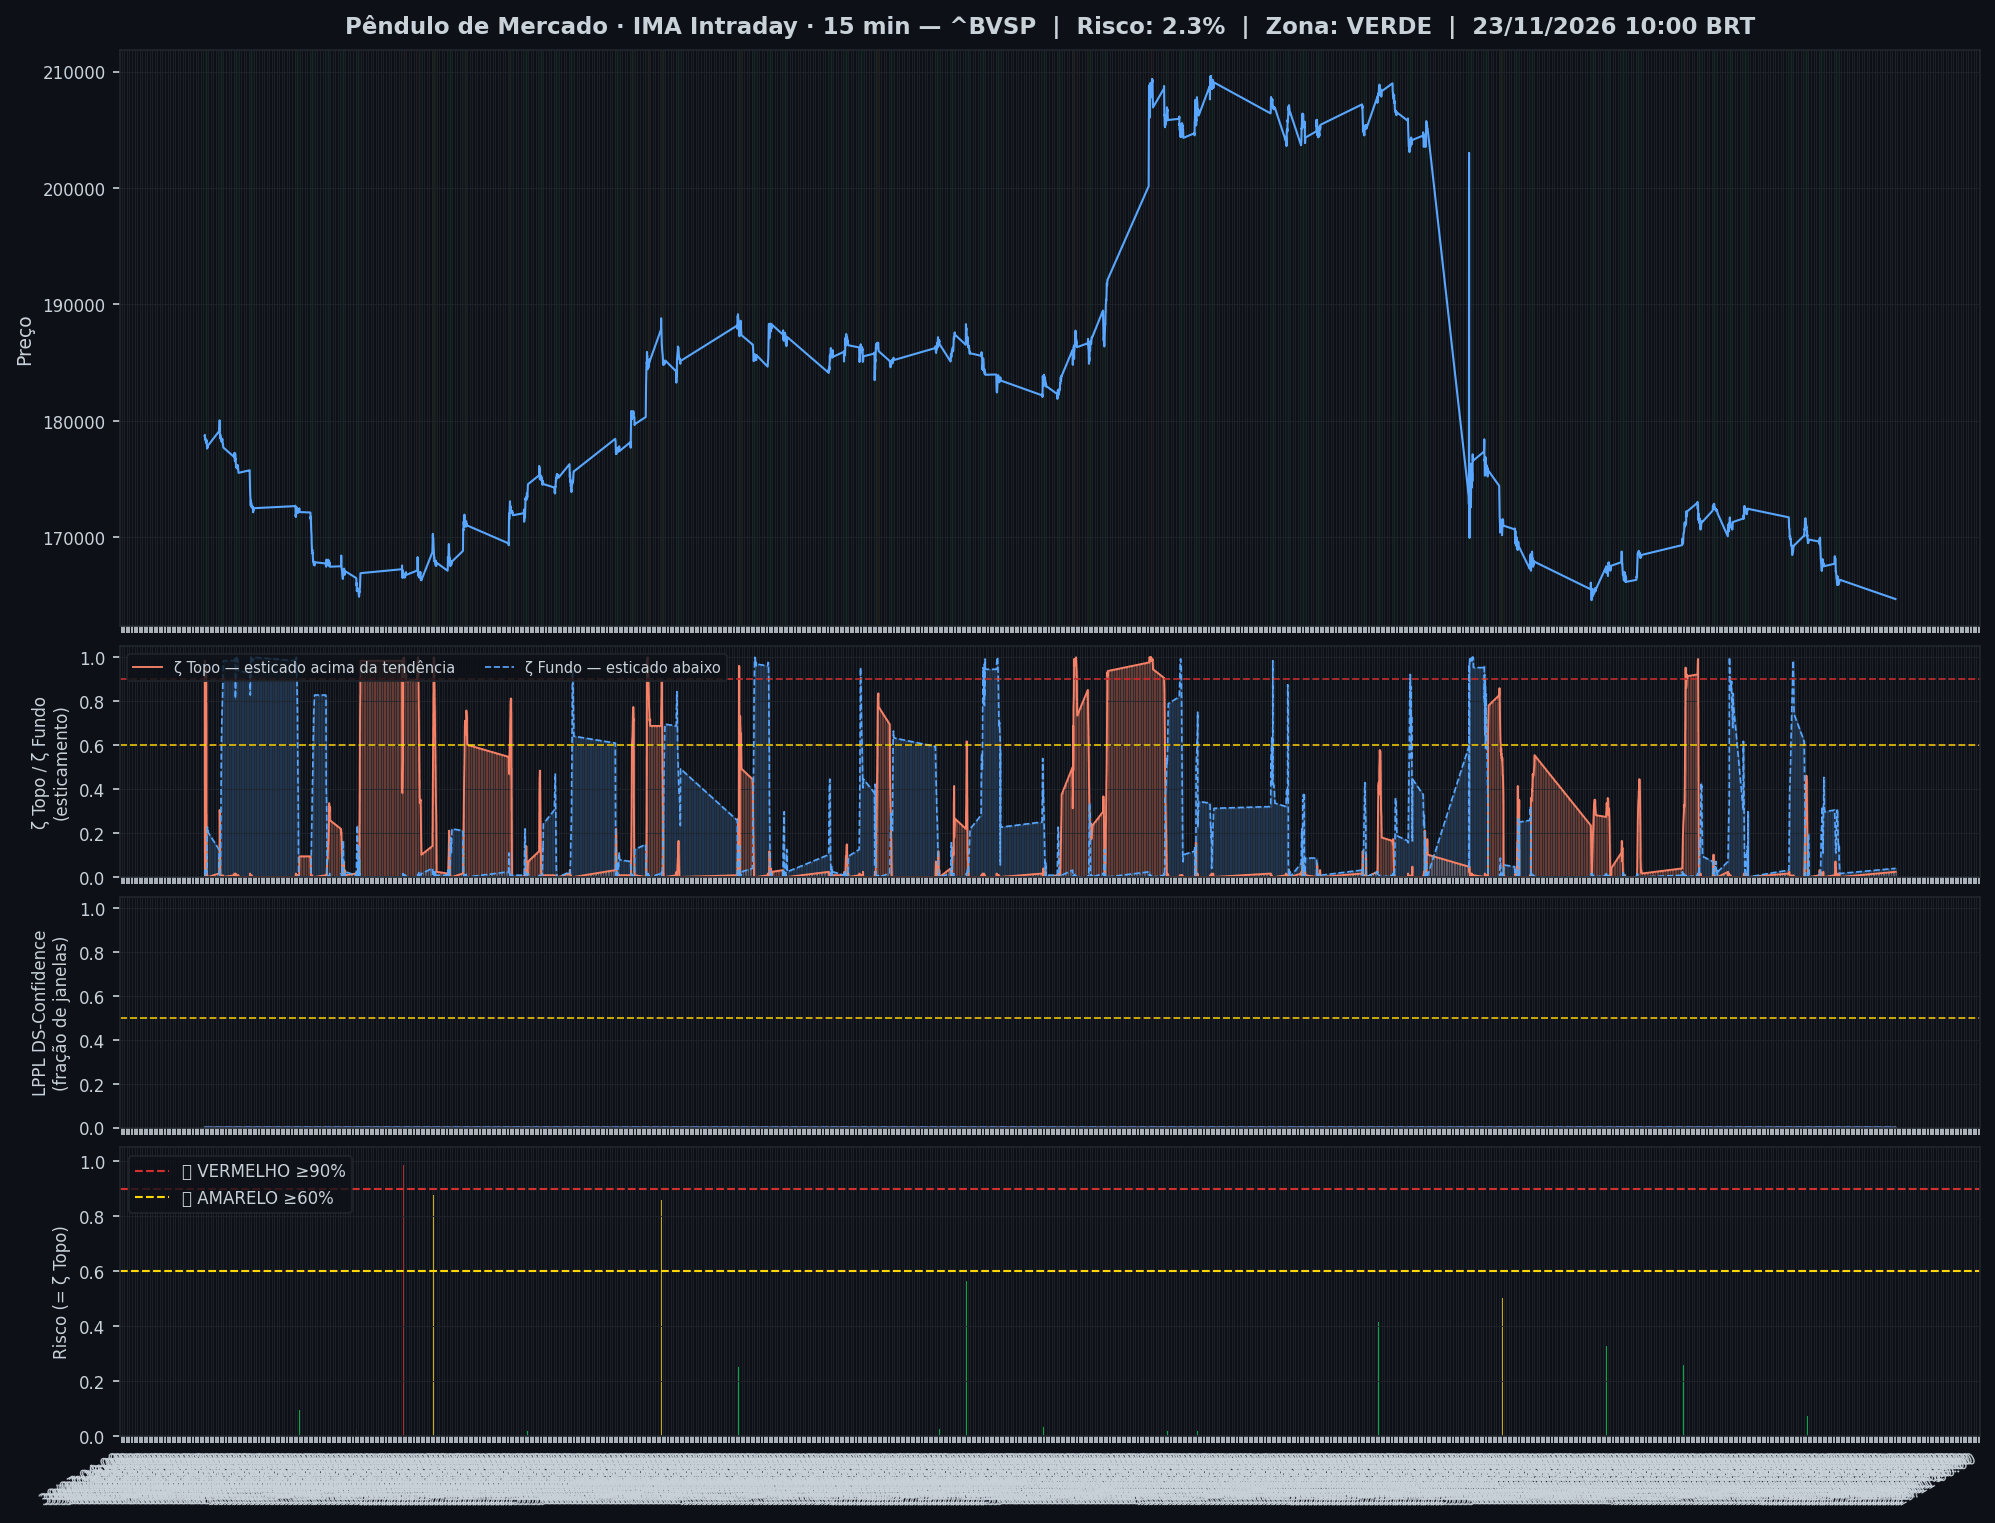
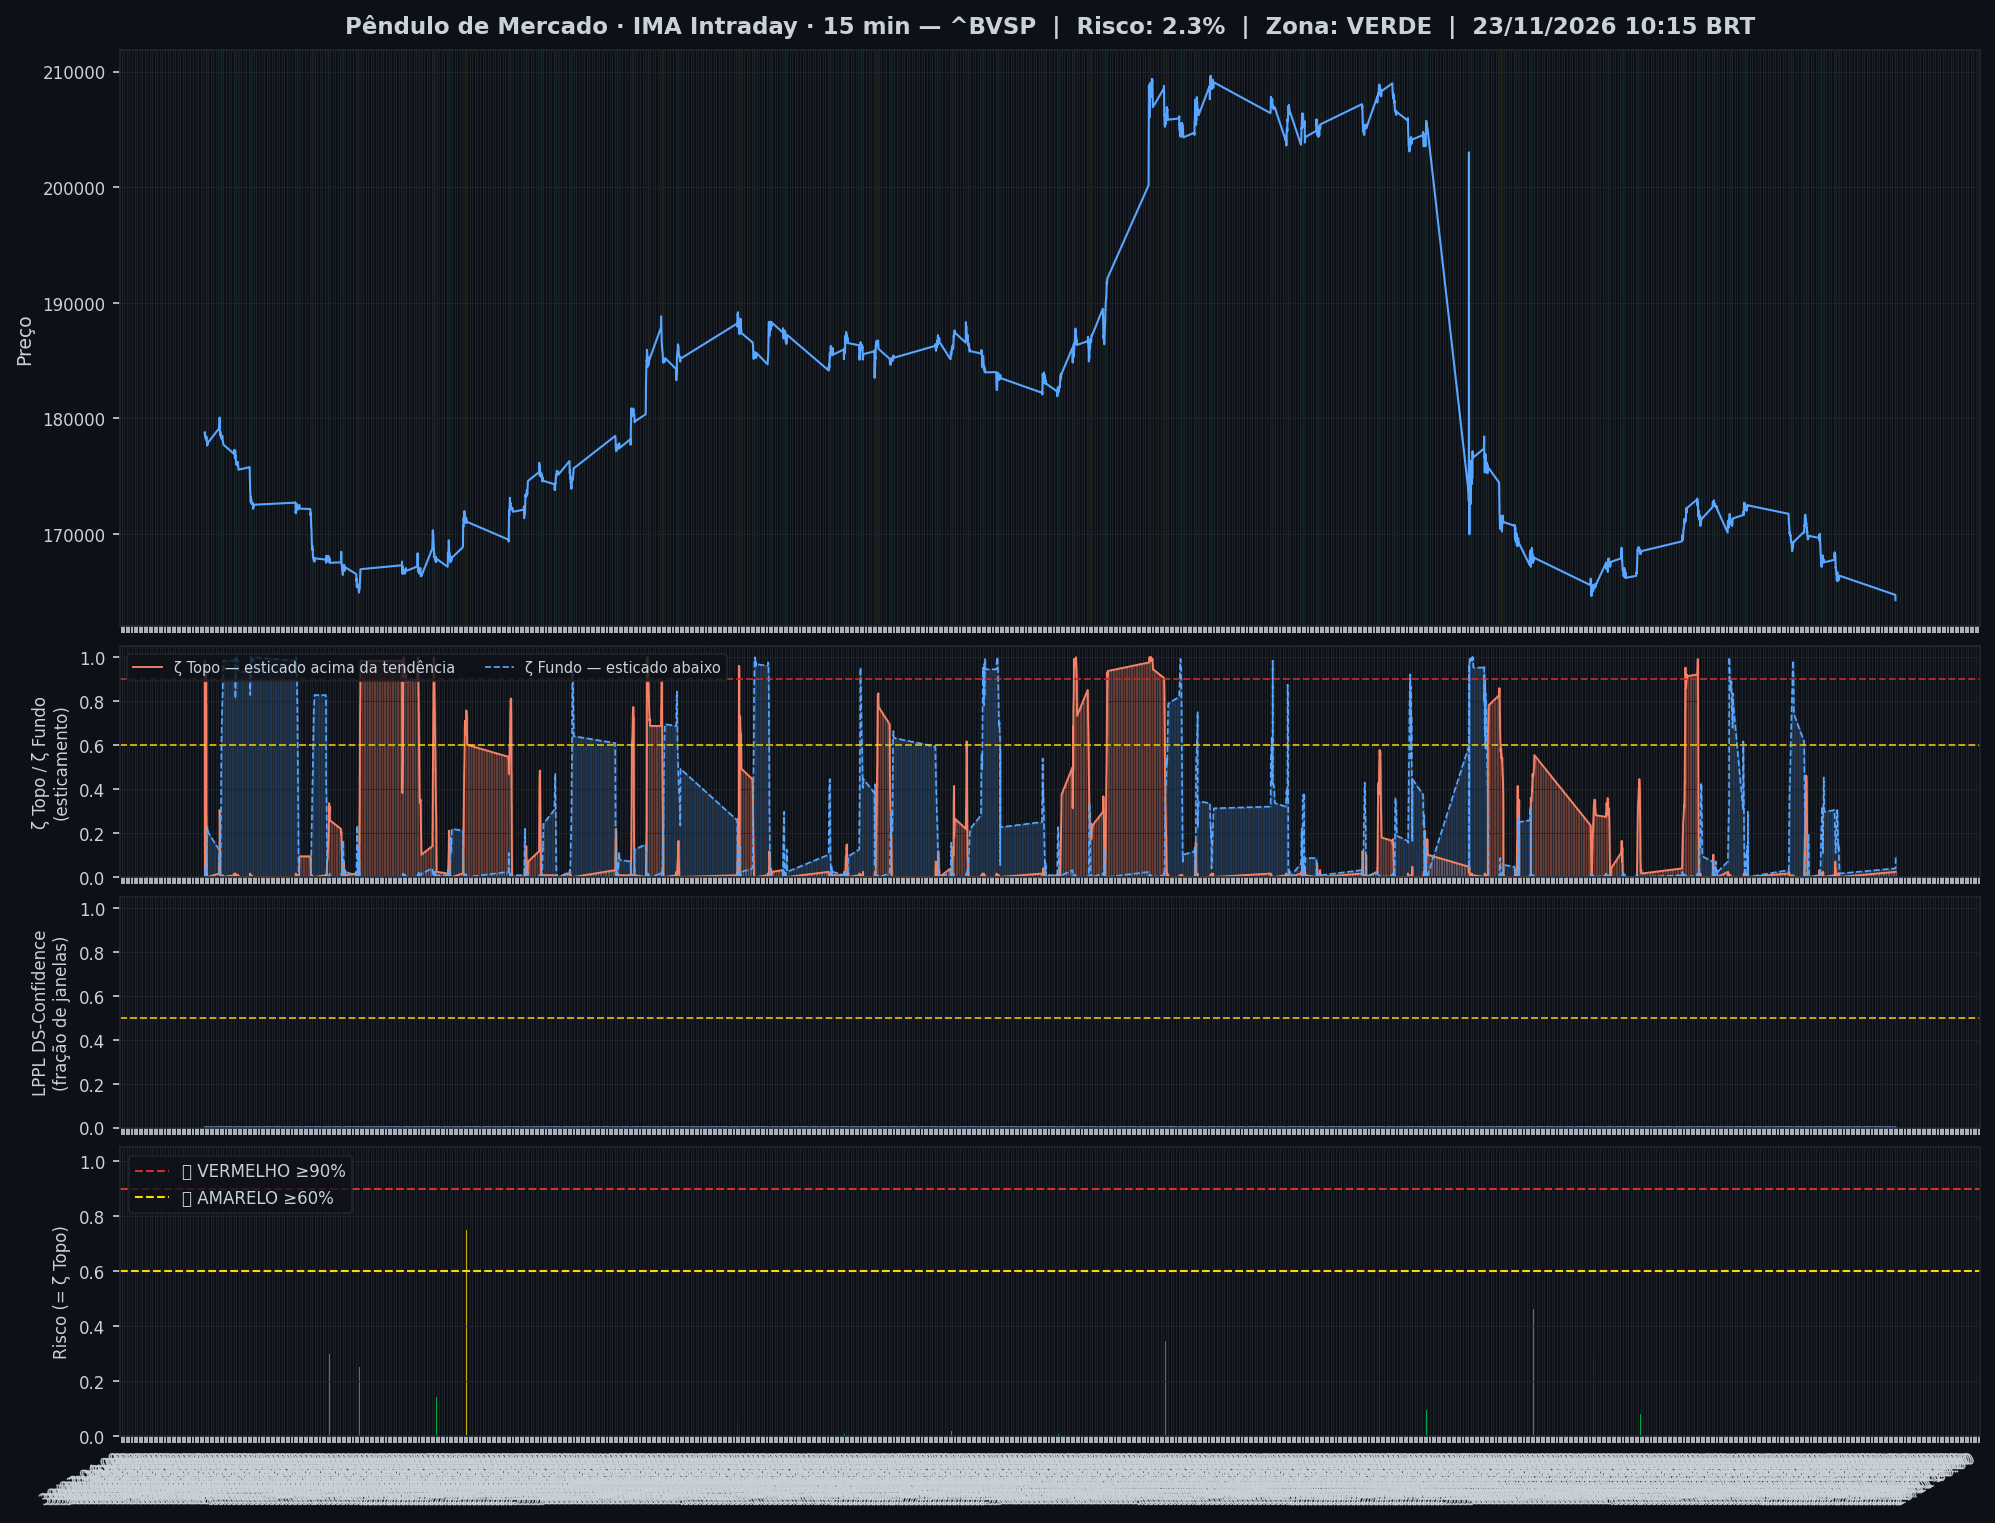
🤖 Auto: Sinal 23/11/2026 10:30

diff --git a/content/intraday/2026-11-23.md b/content/intraday/2026-11-23.md
@@ -1,13 +1,13 @@
 ---
-title: "🟢 Intraday 23/11/2026 10:00 BRT — VERDE"
+title: "🟢 Intraday 23/11/2026 10:15 BRT — VERDE"
 date: 2026-11-23
 tags: [intraday]
 ---
 
-> [!success] Onde o mercado está agora (23/11 10:00, candles de 15 min): **🟢 Calmo**
-> `Pânico ◀──────────●──────────▶ Euforia`
+> [!success] Onde o mercado está agora (23/11 10:15, candles de 15 min): **🟢 Calmo**
+> `Pânico ◀─────────●───────────▶ Euforia`
 >
-> **O Ibovespa cai 1,69% agora, aos 164.713 pontos.** O preço está dentro da sua faixa normal, sem excesso para cima nem para baixo.
+> **O Ibovespa cai 1,96% agora, aos 164.254 pontos.** O preço está dentro da sua faixa normal, sem excesso para cima nem para baixo.
 > No gráfico diário: 🌱 Fundo se desfazendo.
 >
 > *Leitura educacional baseada em 26 anos de dados. Não é recomendação de investimento.*
@@ -20,7 +20,7 @@ tags: [intraday]
 > | 📍 **Sinais** | hoje: nenhum sinal | [abrir](sinais-topo-fundo/) |
 > | 🧪 **Placar ao vivo** | 1 operação(ões), 0 com lucro, soma -0,8% | [abrir](operacoes/) |
 
-> [!success] IMA Intraday · 15 min (23/11 10:00): 🟢 **VERDE** — Risco 2% · ▲ +2 p.p. vs leitura anterior
+> [!success] IMA Intraday · 15 min (23/11 10:15): 🟢 **VERDE** — Risco 2% · ＝ +0 p.p. vs leitura anterior
 > `░░░░░░░░░░░░░░░░░░░░`
 > Preço na faixa normal em torno da tendência.
 
@@ -32,13 +32,13 @@ tags: [intraday]
 >
 > *Leitura educacional baseada em 26 anos de dados, não recomendação. [Como usar](../metodologia/crise#3-como-usar-na-prática).*
 
-| Indicador — IMA Intraday · 15 min (23/11 10:00) | Valor |
+| Indicador — IMA Intraday · 15 min (23/11 10:15) | Valor |
 |---|---|
 | 🔴 ζ Topo — preço esticado acima da tendência | **2%** |
-| 🔵 ζ Fundo — preço esticado abaixo da tendência | 4% |
+| 🔵 ζ Fundo — preço esticado abaixo da tendência | 9% |
 | 🫧 LPPL bolha — alta super-exponencial (risco de crash) | 0% |
 | 🫧 LPPL antibolha — queda super-exponencial (risco de repique) | 0% |
-| 📊 Ibovespa | 164.713 pts |
+| 📊 Ibovespa | 164.254 pts |
 
 ![Gráfico do sinal](../graficos/sinal_intraday.png)
 
@@ -46,6 +46,7 @@ tags: [intraday]
 
 | Data | Zona | Evento | Risco | ζ Topo | ζ Fundo | LPPL |
 |---|---|---|---|---|---|---|
+| 2026-11-23 10:15 | 🟢 VERDE |  | **2%** | 2% | 9% | 0% |
 | 2026-11-23 10:00 | 🟢 VERDE |  | **2%** | 2% | 4% | 0% |
 | 2026-11-19 18:00 | 🟢 VERDE |  | **0%** | 0% | 2% | 0% |
 | 2026-11-19 17:45 | 🟢 VERDE |  | **0%** | 0% | 4% | 0% |
@@ -75,7 +76,6 @@ tags: [intraday]
 | 2026-11-19 11:45 | 🟢 VERDE |  | **4%** | 4% | 11% | 0% |
 | 2026-11-19 11:30 | 🟢 VERDE |  | **5%** | 5% | 12% | 0% |
 | 2026-11-19 11:15 | 🟢 VERDE |  | **7%** | 7% | 14% | 0% |
-| 2026-11-19 11:00 | 🟢 VERDE |  | **5%** | 5% | 17% | 0% |
 
 <small>Destaques: 🟡 ≥ 60% · 🔴 ≥ 90% (Risco e ζ Topo) · 🔵 ≥ 60% · 🔪 ≥ 90% (ζ Fundo) · 🫧 ≥ 30% · 🫧🔴 ≥ 50% (LPPL)</small>
 
@@ -84,43 +84,43 @@ tags: [intraday]
 **0% dos ativos em tensão** (0🔴 0🟡) · **1 com ζ Fundo alto** — quanto mais ativos disparam juntos, mais confiável o sinal.
 
 > [!danger] Em destaque no multi-ativo
-> 🔪 **REDE D OR** ζ Fundo 97%
+> 🔪 **REDE D OR** ζ Fundo 98%
 
 | Zona | Ativo | Setor | ζ Topo | ζ Fundo |
 |---|---|---|---|---|
-| 🟢 | **REDE D OR** | Saúde | 0.0% | 🔪 **96.9%** |
-| 🟢 | **EQUATORIAL** | Energia | 0.0% | 52.3% |
-| 🟢 | **PRIO** | Petróleo | 1.6% | 45.3% |
-| 🟢 | **BRADESCO** | Financeiro | 0.0% | 34.4% |
-| 🟢 | **BRASIL** | Financeiro | 34.4% | 0.8% |
-| 🟢 | **VIBRA** | Energia | 0.0% | 31.2% |
-| 🟢 | **WEG** | Industrial | 3.9% | 27.3% |
-| 🟢 | **TELEF BRASIL** | Outros | 0.0% | 16.4% |
-| 🟢 | **B3** | Financeiro | 13.3% | 0.8% |
-| 🟢 | **AMBEV S/A** | Consumo | 12.5% | 0.8% |
-| 🟢 | **EMBRAER** | Outros | 11.7% | 2.3% |
-| 🟢 | **RUMO S.A.** | Outros | 0.8% | 11.7% |
-| 🟢 | **COPEL** | Energia | 0.8% | 10.2% |
-| 🟢 | **VALE** | Mineração | 0.0% | 9.4% |
-| 🟢 | **AXIA ENERGIA** | Energia | 0.0% | 7.8% |
-| 🟢 | **ITAUUNIBANCO** | Financeiro | 7.0% | 0.0% |
-| 🟢 | **GERDAU** | Siderurgia | 0.8% | 6.2% |
-| 🟢 | **ITAUSA** | Financeiro | 5.5% | 0.0% |
-| 🟢 | **BTGP BANCO** | Financeiro | 1.6% | 5.5% |
-| 🟢 | **ENEVA** | Energia | 5.5% | 0.0% |
-| 🟢 | **USD/BRL** | Câmbio | 5.5% | 3.9% |
-| 🟢 | **PETROBRAS** | Petróleo | 2.3% | 3.1% |
-| 🟢 | **PETROBRAS** | Petróleo | 2.3% | 3.1% |
-| 🟢 | **SUZANO S.A.** | Papel/Celulose | 3.1% | 0.0% |
-| 🟢 | **ULTRAPAR** | Outros | 3.1% | 0.8% |
-| 🟢 | **LOCALIZA** | Aluguel | 1.6% | 3.1% |
-| 🟢 | **SABESP** | Saneamento | 1.6% | 1.6% |
+| 🟢 | **REDE D OR** | Saúde | 1.6% | 🔪 **97.7%** |
+| 🟢 | **EQUATORIAL** | Energia | 0.8% | 58.6% |
+| 🟢 | **WEG** | Industrial | 3.9% | 38.3% |
+| 🟢 | **BRASIL** | Financeiro | 38.3% | 0.0% |
+| 🟢 | **PRIO** | Petróleo | 1.6% | 36.7% |
+| 🟢 | **BRADESCO** | Financeiro | 0.8% | 35.9% |
+| 🟢 | **VIBRA** | Energia | 1.6% | 33.6% |
+| 🟢 | **VALE** | Mineração | 1.6% | 19.5% |
+| 🟢 | **COPEL** | Energia | 1.6% | 18.0% |
+| 🟢 | **AXIA ENERGIA** | Energia | 0.8% | 15.6% |
+| 🟢 | **EMBRAER** | Outros | 3.1% | 14.1% |
+| 🟢 | **RUMO S.A.** | Outros | 0.8% | 14.1% |
+| 🟢 | **BTGP BANCO** | Financeiro | 2.3% | 13.3% |
+| 🟢 | **LOCALIZA** | Aluguel | 0.8% | 13.3% |
+| 🟢 | **TELEF BRASIL** | Outros | 2.3% | 13.3% |
+| 🟢 | **SUZANO S.A.** | Papel/Celulose | 11.7% | 0.0% |
+| 🟢 | **GERDAU** | Siderurgia | 1.6% | 11.7% |
+| 🟢 | **USD/BRL** | Câmbio | 8.6% | 1.6% |
+| 🟢 | **AMBEV S/A** | Consumo | 7.0% | 1.6% |
+| 🟢 | **B3** | Financeiro | 6.2% | 3.1% |
+| 🟢 | **ENEVA** | Energia | 6.2% | 0.8% |
+| 🟢 | **PETROBRAS** | Petróleo | 2.3% | 5.5% |
+| 🟢 | **PETROBRAS** | Petróleo | 2.3% | 5.5% |
+| 🟢 | **ITAUUNIBANCO** | Financeiro | 3.9% | 1.6% |
+| 🟢 | **ITAUSA** | Financeiro | 3.9% | 2.3% |
+| 🟢 | **ULTRAPAR** | Outros | 3.1% | 1.6% |
+| 🟢 | **SABESP** | Saneamento | 2.3% | 2.3% |
 
 <small>Destaques: 🟡 ≥ 60% · 🔴 ≥ 90% (Risco e ζ Topo) · 🔵 ≥ 60% · 🔪 ≥ 90% (ζ Fundo) · 🫧 ≥ 30% · 🫧🔴 ≥ 50% (LPPL)</small>
 
 ![Monitor multi-ativo](../graficos/multi_intraday.png)
 
-*Página atualizada em 23/11/2026 10:16 BRT (leitura da barra de 2026-11-23 10:00 BRT).*
+*Página atualizada em 23/11/2026 10:30 BRT (leitura da barra de 2026-11-23 10:15 BRT).*
 
 > [!warning] O que este indicador não faz
 > Medido em 5 anos de Ibovespa, o ζ **não antecipa** topos nem fundos: a capacidade de separar o que sobe do que cai ficou em 0,49–0,52, e 0,50 é moeda jogada ao ar. Ele descreve o estado de agora; não é aviso do que vem. As zonas verde/amarelo/vermelho continuam na página como descrição desse estado — **não as use como sinal de entrada ou saída**.

diff --git a/content/index.md b/content/index.md
@@ -7,12 +7,12 @@ tags: [home]
 
 **As ondas do mercado, explicadas.** Leitura do Ibovespa com estatística de 26 anos, baseada no trabalho de pesquisadores e traders reconhecidos e adaptada por Jarbas Daniel da Costa.
 
-*Última atualização: 23/11/2026 10:16 BRT · Intraday 15min*
+*Última atualização: 23/11/2026 10:30 BRT · Intraday 15min*
 
-> [!success] Onde o mercado está agora (23/11 10:00, candles de 15 min): **🟢 Calmo**
-> `Pânico ◀──────────●──────────▶ Euforia`
+> [!success] Onde o mercado está agora (23/11 10:15, candles de 15 min): **🟢 Calmo**
+> `Pânico ◀─────────●───────────▶ Euforia`
 >
-> **O Ibovespa cai 1,69% agora, aos 164.713 pontos.** O preço está dentro da sua faixa normal, sem excesso para cima nem para baixo.
+> **O Ibovespa cai 1,96% agora, aos 164.254 pontos.** O preço está dentro da sua faixa normal, sem excesso para cima nem para baixo.
 > No gráfico diário: 🌱 Fundo se desfazendo.
 >
 > *Leitura educacional baseada em 26 anos de dados. Não é recomendação de investimento.*
@@ -50,18 +50,18 @@ tags: [home]
 > *Leitura educacional baseada em 26 anos de dados, não recomendação. [Como usar](metodologia/crise#3-como-usar-na-prática).*
 
 > [!info]- 🌊 Detalhes do Sinal IMA (indicadores e últimos 7 pregões)
-> > [!success] IMA Intraday · 15 min (23/11 10:00): 🟢 **VERDE** — Risco 2% · ▲ +2 p.p. vs leitura anterior
+> > [!success] IMA Intraday · 15 min (23/11 10:15): 🟢 **VERDE** — Risco 2% · ＝ +0 p.p. vs leitura anterior
 > > `░░░░░░░░░░░░░░░░░░░░`
 > > Preço na faixa normal em torno da tendência.
 >
 >
-> | Indicador — IMA Intraday · 15 min (23/11 10:00) | Valor |
+> | Indicador — IMA Intraday · 15 min (23/11 10:15) | Valor |
 > |---|---|
 > | 🔴 ζ Topo — preço esticado acima da tendência | **2%** |
-> | 🔵 ζ Fundo — preço esticado abaixo da tendência | 4% |
+> | 🔵 ζ Fundo — preço esticado abaixo da tendência | 9% |
 > | 🫧 LPPL bolha — alta super-exponencial (risco de crash) | 0% |
 > | 🫧 LPPL antibolha — queda super-exponencial (risco de repique) | 0% |
-> | 📊 Ibovespa | 164.713 pts |
+> | 📊 Ibovespa | 164.254 pts |
 >
 > **Multi-ativo:** 0% em tensão (0🔴 0🟡 de 27 ativos)
 >
@@ -69,7 +69,7 @@ tags: [home]
 >
 > | Data | Zona | Risco | ζ Topo | ζ Fundo | LPPL |
 > |---|---|---|---|---|---|
-> | [23/11/2026](intraday/2026-11-23) | 🟢 VERDE | **2%** | 2% | 4% | 0% |
+> | [23/11/2026](intraday/2026-11-23) | 🟢 VERDE | **2%** | 2% | 9% | 0% |
 > | [19/11/2026](intraday/2026-11-19) | 🟢 VERDE | **0%** | 0% | 2% | 0% |
 >
 > <small>Destaques: 🟡 ≥ 60% · 🔴 ≥ 90% (Risco e ζ Topo) · 🔵 ≥ 60% · 🔪 ≥ 90% (ζ Fundo) · 🫧 ≥ 30% · 🫧🔴 ≥ 50% (LPPL)</small>

diff --git a/content/operacoes/entradas.md b/content/operacoes/entradas.md
@@ -84,7 +84,7 @@ description: "Compra depois de um sinal de fundo: Nadaraya no diário, semáforo
 > | Diário · Semáforo N3 após ζ Fundo | 07/07/26 a 172.021 | 10/08/26 a 172.021 | **+0,0%** | stop no preço de entrada |
 > | H4 · Semáforo N2 | 12/06/26 14h a 171.134 | 15/06/26 14h a 171.134 | **+0,0%** | stop no preço de entrada |
 >
-> <small>Atualizado 20/11 19:00 · checado no pregão às 10:15. Nota: ✅ passou no teste fora da amostra (walk-forward 2008–2026) · 🧪 em teste (H4, com aviso no Telegram) ou em observação (ζ, sem aviso) · 🧪 na tabela = operação do teste ao vivo.</small>
+> <small>Atualizado 20/11 19:00 · checado no pregão às 10:30. Nota: ✅ passou no teste fora da amostra (walk-forward 2008–2026) · 🧪 em teste (H4, com aviso no Telegram) ou em observação (ζ, sem aviso) · 🧪 na tabela = operação do teste ao vivo.</small>
 >
 > *Regras: depois de um sinal de fundo, o Diário entra quando o Nadaraya vira para cima; o Semanal e o H4 entram quando um fundo do semáforo fica fixo. Stop e saída de cada regra na [metodologia](metodologia/regras-de-operacao#entradas-do-método). Nenhuma regra de venda passou no teste. Os números do histórico têm viés de escolha (overfitting); o placar ao vivo é o que vale. Leitura educacional do método, não recomendação.*
 

diff --git a/content/integridade/index.md b/content/integridade/index.md
@@ -6,7 +6,7 @@ description: "O que foi conferido, contra qual fonte e quando — medido na hora
 tags: [integridade]
 ---
 
-*Pregão conferido: **19/11/2026**, com 54 tabelas no acervo · página gerada em 23/11/2026 10:16*
+*Pregão conferido: **19/11/2026**, com 54 tabelas no acervo · página gerada em 23/11/2026 10:30*
 
 O pregão conferido é o último **fechado e arquivado inteiro**, não o de hoje: enquanto o dia corre, só algumas tabelas estão gravadas, e conferir um dia pela metade produziria alarme falso.
 
@@ -23,7 +23,7 @@ Esta página não declara que o site está correto. Ela **mede** e escreve o res
 | Tabelas com conteúdo fora da curva | nenhuma |
 | Páginas publicadas | 364 |
 | Conferências cruzadas das páginas | 71 certas, nenhuma divergência |
-| Página escrita mais recentemente | 23/11 10:16 |
+| Página escrita mais recentemente | 23/11 10:30 |
 | Páginas sem data no cabeçalho | 9 — cegas para a conferência de dado |
 
 ## 1 · Acervo do boletim diário

diff --git a/content/operacoes/ranking.md b/content/operacoes/ranking.md
@@ -56,7 +56,7 @@ description: "As regras de compra do site ordenadas pelo resultado, com treino, 
 > 
 > Operação **com 🧪** começou depois de **23/10/2026**, com as regras congeladas. É o único resultado sem nenhum ajuste ao passado, e é por ele que cada regra está sendo julgada.
 
-*Atualizado 23/11/2026 10:16 · histórico simulado com as regras congeladas em 23/10/2026 + placar ao vivo.*
+*Atualizado 23/11/2026 10:30 · histórico simulado com as regras congeladas em 23/10/2026 + placar ao vivo.*
 
 As regras de compra do site, **da que mais rendeu para a que menos rendeu**. O resultado é por operação, no índice à vista, sem custos e sem juros compostos (a soma é só a soma das operações). **Treino** = entradas de 2001 a 2013 e **teste** = 2014 em diante: uma regra só é confiável se ganhou nos dois. O único resultado sem nenhum ajuste ao histórico é o **placar ao vivo**.
 

diff --git a/content/historico.md b/content/historico.md
@@ -5,7 +5,7 @@ tags: [historico]
 
 # 📜 Histórico de leituras (v5)
 
-**2.516 leituras** desde 2026-07-03. Na página ficam os últimos 3 dias leitura por leitura e o resumo de cada dia anterior; o registro inteiro está no arquivo para baixar.
+**2.517 leituras** desde 2026-07-03. Na página ficam os últimos 3 dias leitura por leitura e o resumo de cada dia anterior; o registro inteiro está no arquivo para baixar.
 
 [**Baixar o histórico completo**](historico-completo.csv) (110 KB · abre no Excel e no LibreOffice)
 
@@ -16,6 +16,7 @@ tags: [historico]
 
 | Data | Modo | Zona | Risco | IMA | LPPL |
 |---|---|---|---|---|---|
+| 2026-11-23 10:15 | intraday | 🟢 VERDE | 2% | 2% | 0% |
 | 2026-11-23 10:00 | intraday | 🟢 VERDE | 2% | 2% | 0% |
 | 2026-11-19 18:00 | intraday | 🟢 VERDE | 0% | 0% | 0% |
 | 2026-11-19 17:45 | intraday | 🟢 VERDE | 0% | 0% | 0% |

diff --git a/content/linha-do-tempo/index.md b/content/linha-do-tempo/index.md
@@ -5,7 +5,7 @@ description: "Todo sinal, ordem, stop e aviso do Pêndulo de Mercado, do mais re
 tags: [eventos]
 ---
 
-*Atualizada 23/11/2026 10:16 BRT · a cada 15 min no pregão e às 19h.*
+*Atualizada 23/11/2026 10:30 BRT · a cada 15 min no pregão e às 19h.*
 
 Tudo o que o sistema fez ou detectou, **do mais recente para o mais antigo**: sinais de topo e fundo, ordens de compra e de venda armadas, compras, vendas, stops, avisos de 🚨 preço perto do nível e mudanças do Sinal IMA. Os **últimos 7 dias** ficam abertos; o resto, por **ano → mês → dia**.
 

diff --git a/content/avisos/index.md b/content/avisos/index.md
@@ -2,7 +2,7 @@
 title: "⚠ Avisos: o que saber antes de usar os números"
 ---
 
-*Gerado em 23/11/2026 10:16*
+*Gerado em 23/11/2026 10:30*
 
 Este site publica muitos números, e cada um tem uma limitação que importa na hora de
 decidir. As limitações estão escritas nas próprias páginas, mas quem chega direto numa
